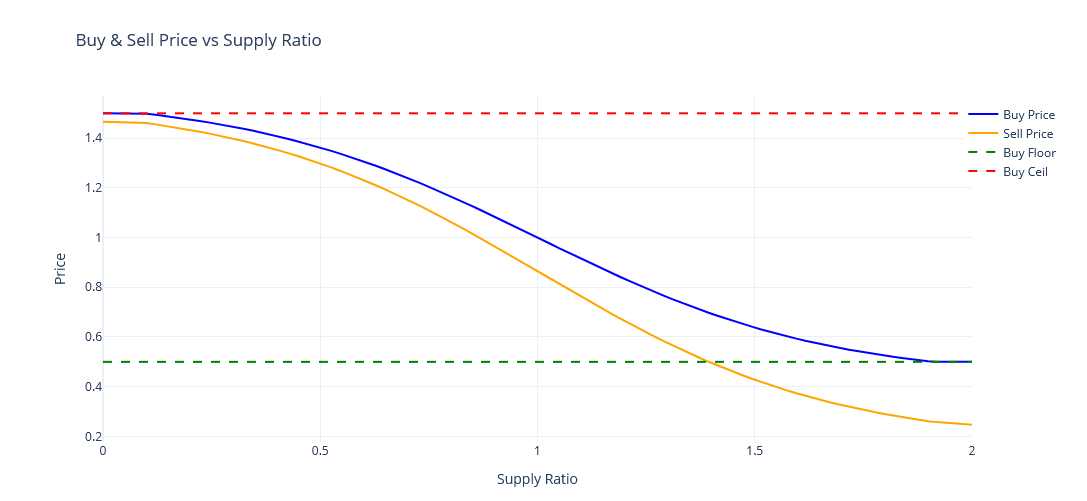
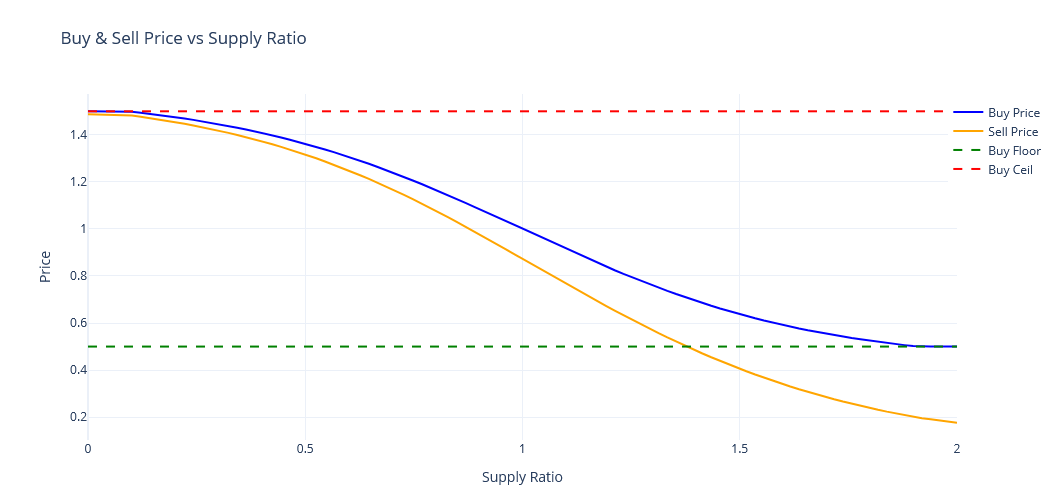
Updated README.md

diff --git a/name_generator.py b/name_generator.py
@@ -370,7 +370,7 @@ faeyan_interstellar_corpos = {
 }
 
 human_interstellar_corpos = {
-    'Organics': 'Eden Exports',
+    'Organics': 'GalaMart',
     'Synthetics': 'Exo Corp.',
     'Common Minerals': 'Titan Extractors',
     'Rare Minerals': 'Titan Extractors',

diff --git a/README.md b/README.md
@@ -25,28 +25,14 @@ Here's an example use
 0.2 - General price balancing, code stability, more features (like finding trades) and improvements
 
 ### Future
-0.3 - Passive trade good production, Producer Bonuses
+0.3 - Passive trade good production, Producer Bonuses  
 0.4 - Growths and Recessions, NPC trading
 
 ### Past
 0.1 - All basic features implemented, you can buy goods in one market and sell to another, but without a money limit
 
-# Price factors
-
-Global:
-  * Inflation   
-  * Trade Difficulty of Simulation
-  * Trade Good Base Price and Range
-
-Market:
-  * Development Score (highly developed planets have more expensive goods)
-  * Producer Bonuses if applicable
-  * Daily Fluctuation
-  * Market Events like deficits or sales.
-  * Supply and Demand
-
 # Planned features
-- Passive production and consumption of trade goods
+- Passive production and consumption of trade goods. Events that can trigger large production or consumption changes. 
 - Producer Bonuses. Check bonuses on other markets and seek the corresponding producers that get rewarded for more profit
 - Growth - Triggers producer bonuses, points price fluctuations downwards in price. Lasts 0.5-1.5 years.
 - Recession - triggers selling bonuses, points price fluctuations upwards in price. Also lasts 0.5-1.5 years
@@ -61,16 +47,33 @@ Market:
 
 Most important file is economy_entity.py
 
-Most important functions are: Market.generate_market(), Market.buy(), Market.sell(), calculate_price_point(),
+Most important functions: 
+
+#### Market
+generate_market(), buy(), sell(), recalculate_prices(), calculate_buy_price_point(), calculate_buy_price_point()
 
 ### Supply and Demand
 
-
 ![](images/supply%20demand%20graph.png?)
 
-This graph explains how buy and sell prices are determined by a function of supply ratio. 
-Low supply ratio -> Higher buy prices -> closer sell prices
+This graph illustrates how buy and sell prices are determined by a function of supply ratio.   
+Low supply ratio -> Higher buy prices -> closer sell prices  
 High Supply ratio -> Lower buy prices -> distant sell prices
+
+
+### Price factors
+
+Global:
+  * Inflation   
+  * Trade Difficulty of Simulation - Affects Price Spread
+  * Base Price
+  * Trade Good Fluctuation
+
+Market:
+  * Development Score (highly developed planets have more goods, and they're more expensive)
+  * Producer Bonuses if applicable (currently not implemented)
+  * Market Events like deficits or sales. (currently not implemented)
+  * Supply and Demand
 
 # Data Structures
 ### SimulationStatus:
